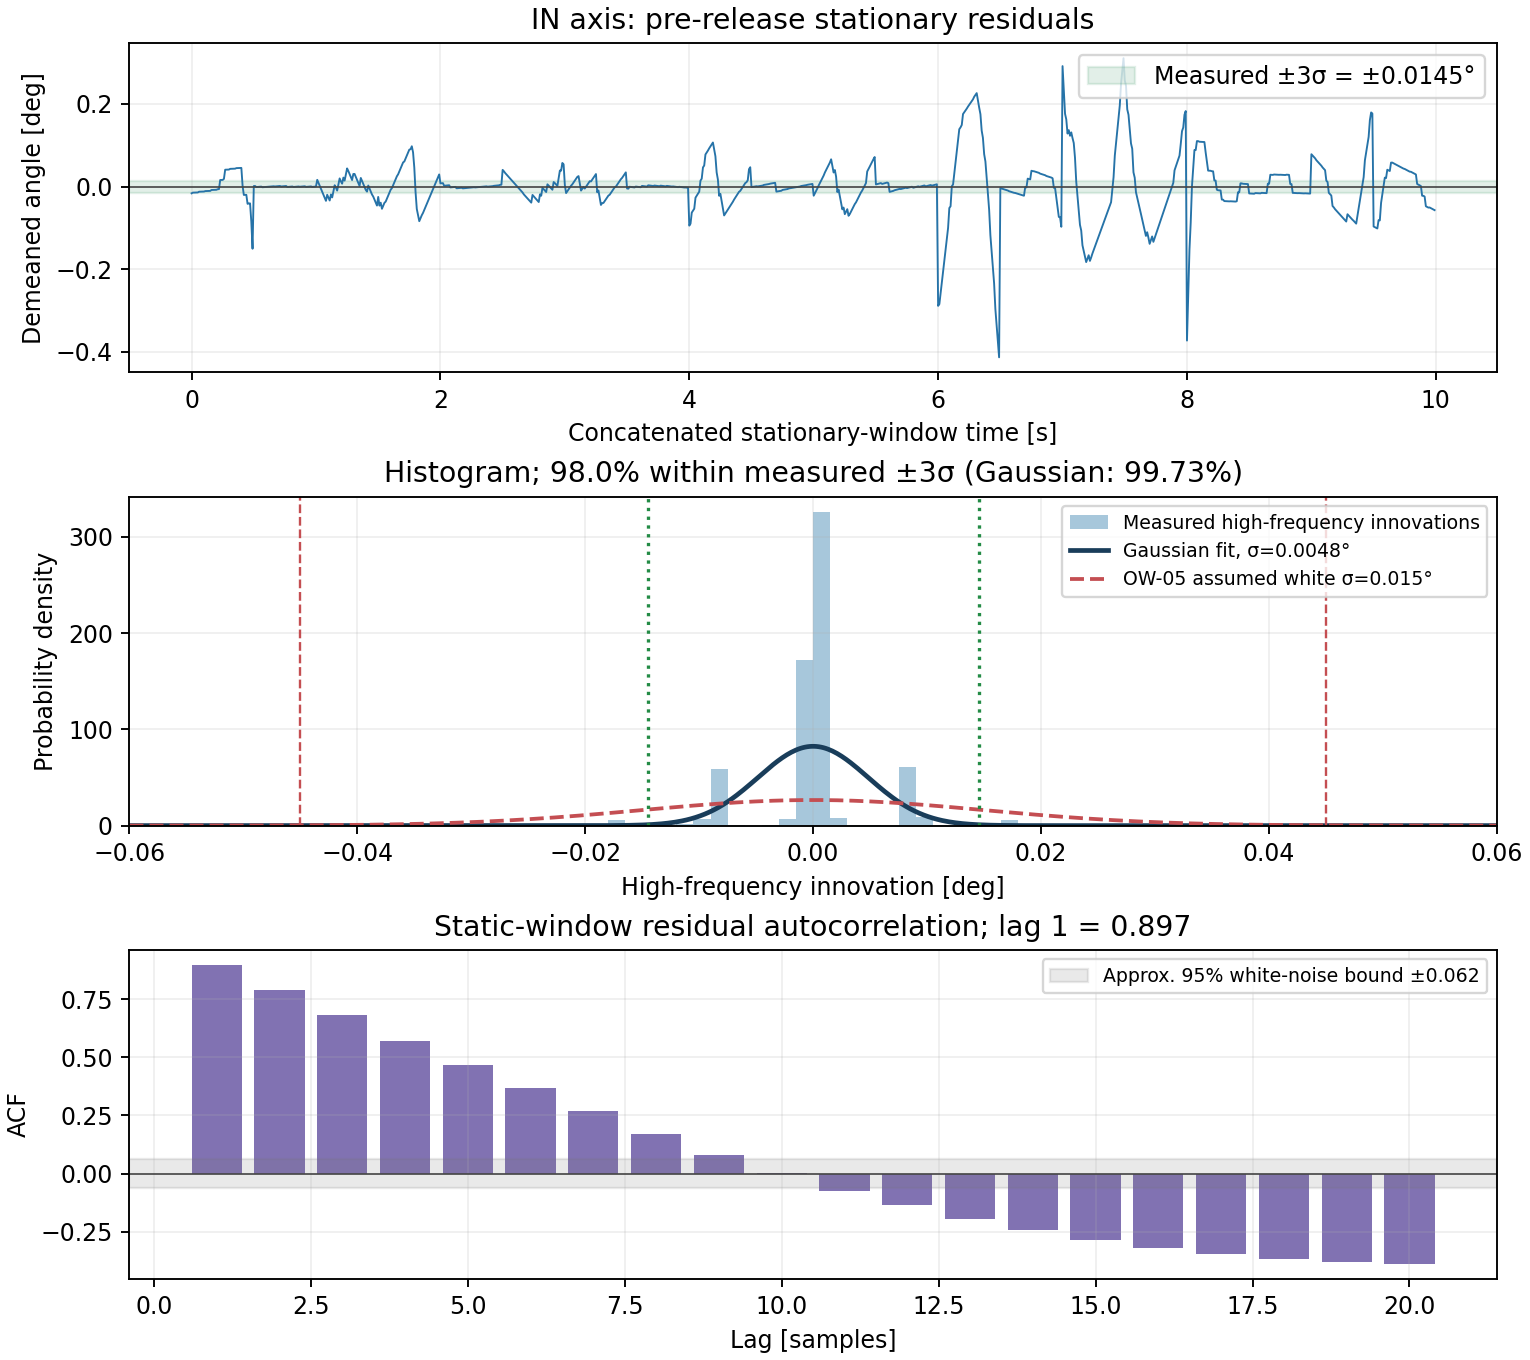
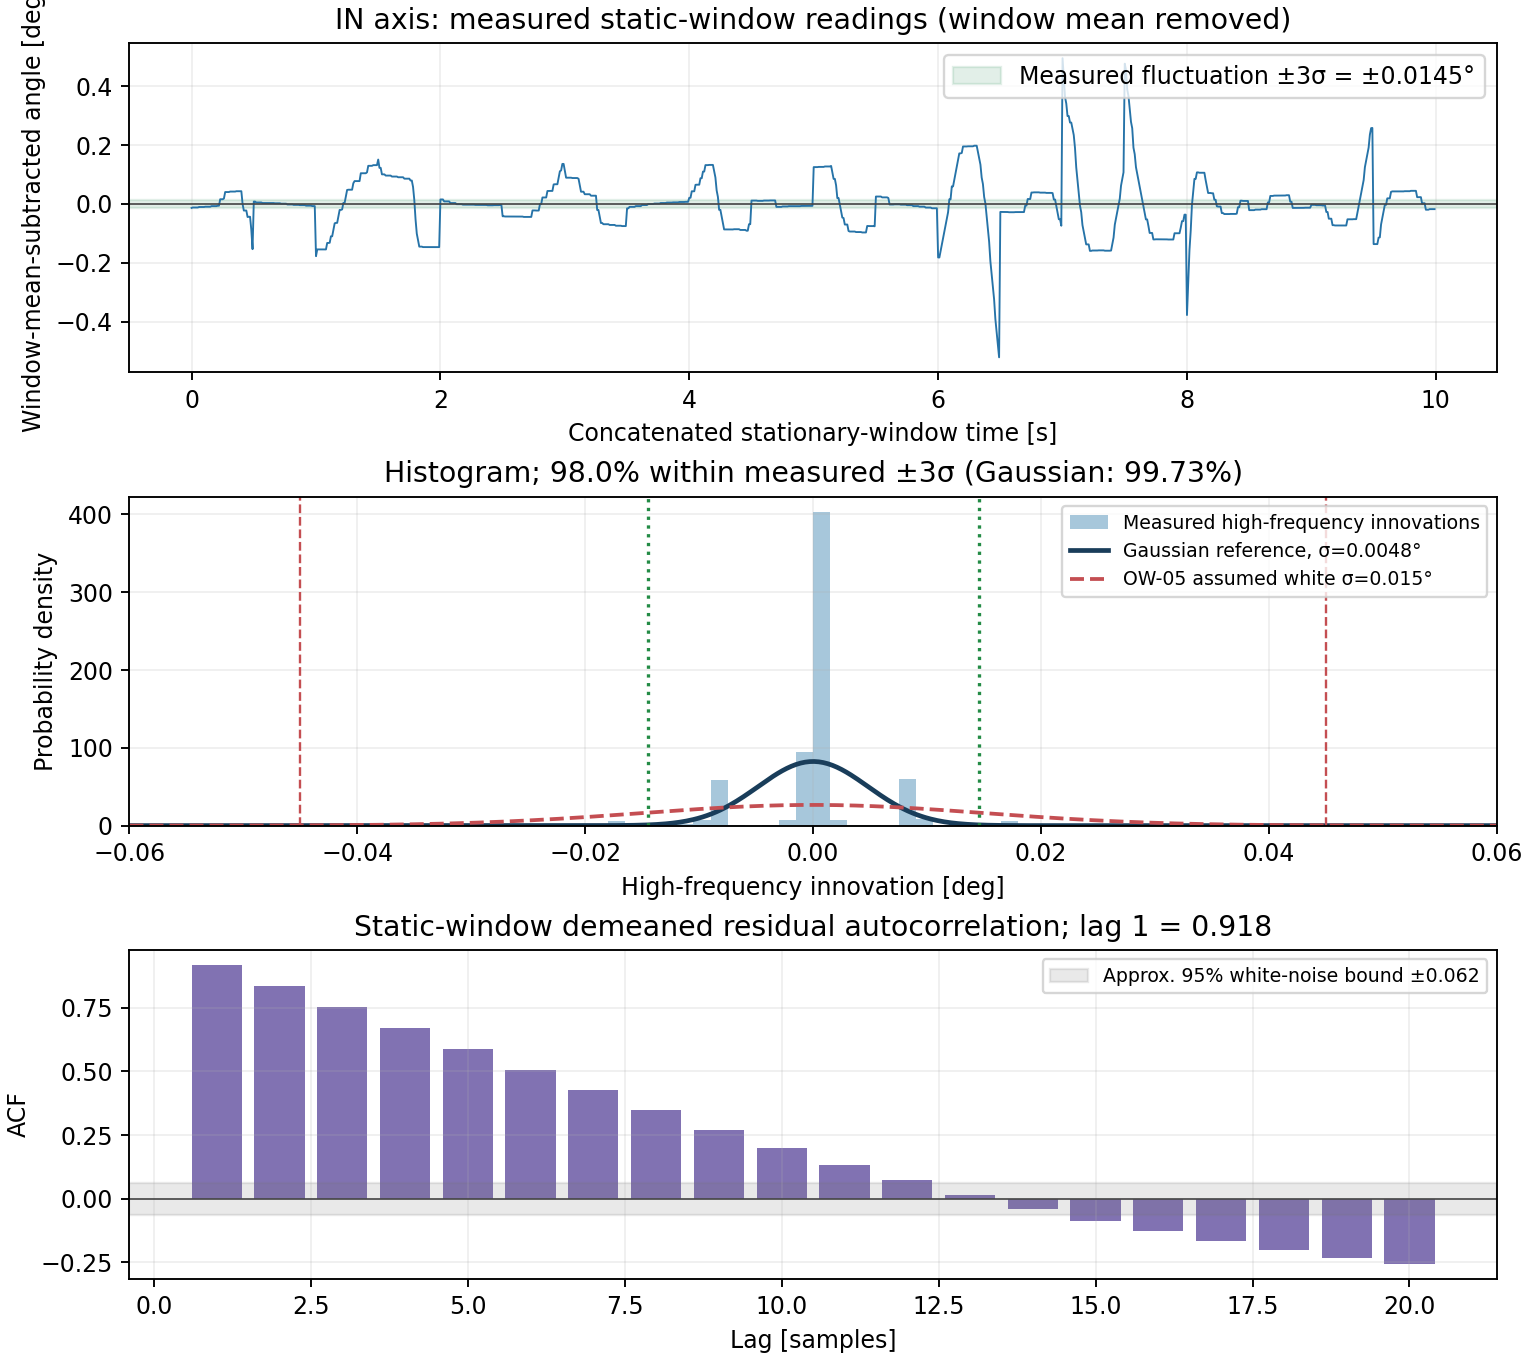
Plot mean-centered OW-05 static windows

diff --git a/06_Analysis/simulation/src/run_ow05_sensor_nonideality.py b/06_Analysis/simulation/src/run_ow05_sensor_nonideality.py
@@ -64,9 +64,9 @@ def analyze_measured_sensor_noise():
             break
         if selected is None:
           continue
-        sample=np.arange(window_n,dtype=float)
-        trend=np.polyval(np.polyfit(sample,selected,1),sample)
-        residual=selected-trend
+        # Remove only each static window's mean: the plotted trace represents
+        # measured high-frequency fluctuation, without removing its waveform.
+        residual=selected-float(np.mean(selected))
         # For independent sample noise, second difference has variance 1.5*sigma^2.
         innovations=(residual[1:-1]-0.5*(residual[:-2]+residual[2:]))/np.sqrt(1.5)
         windows.append({'segment_id':str(record['segment_id']),'data_file':relative_path,
@@ -112,9 +112,9 @@ def analyze_measured_sensor_noise():
       residuals=v['residuals']; sigma=v['white_equivalent_sigma_deg']
       joined=np.concatenate(residuals)
       axes[0].plot(np.arange(len(joined))*0.01,joined,lw=.8,color='#2673a8')
-      axes[0].axhspan(-3*sigma,3*sigma,color='#4c9f70',alpha=.16,label=f'Measured ±3σ = ±{3*sigma:.4f}°')
-      axes[0].axhline(0,color='#444',lw=.7); axes[0].set_ylabel('Demeaned angle [deg]')
-      axes[0].set_xlabel('Concatenated stationary-window time [s]'); axes[0].set_title(f'{axis} axis: pre-release stationary residuals')
+      axes[0].axhspan(-3*sigma,3*sigma,color='#4c9f70',alpha=.16,label=f'Measured fluctuation ±3σ = ±{3*sigma:.4f}°')
+      axes[0].axhline(0,color='#444',lw=.7); axes[0].set_ylabel('Window-mean-subtracted angle [deg]')
+      axes[0].set_xlabel('Concatenated stationary-window time [s]'); axes[0].set_title(f'{axis} axis: measured static-window readings (window mean removed)')
       axes[0].legend(loc='upper right'); axes[0].grid(alpha=.2)
       e=v['innovations']; bins=np.linspace(-0.06,0.06,81)
       axes[1].hist(e,bins=bins,density=True,color='#79a9c9',alpha=.65,label='Measured high-frequency innovations')
@@ -132,7 +132,7 @@ def analyze_measured_sensor_noise():
       lags=np.arange(1,len(v['acf'])+1); bound=v['acf_95_bound']
       axes[2].bar(lags,v['acf'],color='#8172b2',width=.8); axes[2].axhline(0,color='#444',lw=.7)
       axes[2].axhspan(-bound,bound,color='#777',alpha=.16,label=f'Approx. 95% white-noise bound ±{bound:.3f}')
-      axes[2].set_xlabel('Lag [samples]'); axes[2].set_ylabel('ACF'); axes[2].set_title(f"Static-window residual autocorrelation; lag 1 = {v['residual_acf_lag1']:.3f}")
+      axes[2].set_xlabel('Lag [samples]'); axes[2].set_ylabel('ACF'); axes[2].set_title(f"Static-window demeaned residual autocorrelation; lag 1 = {v['residual_acf_lag1']:.3f}")
       axes[2].legend(loc='upper right',fontsize=8); axes[2].grid(alpha=.2)
       fig.savefig(OUT/f'ow05_measured_noise_{axis.lower()}.png',dpi=170); plt.close(fig)
     return estimates

diff --git a/06_Analysis/simulation/results/observer_wind/ow05_sensor_nonideality/OW-05_REPORT.md b/06_Analysis/simulation/results/observer_wind/ow05_sensor_nonideality/OW-05_REPORT.md
@@ -28,7 +28,7 @@ OW-03で角度±60°内だった独立Kaimal乱流（平均2 m/s、TI 20%）と2
 | IN | 20 | 960 | 0.00484 | ±0.01452 | 0.01500 | 3.10× |
 | OUT | 24 | 1152 | 0.00554 | ±0.01662 | 0.01500 | 2.71× |
 
-図の上段の青線は、静止窓で実際に記録した計測角から一次傾向を除いた残差である。中央の棒は、その残差から計算した高周波変動の実測分布である。濃い青線は実測波形ではなく、表の計測角変動相当σを用いて重ねた正規分布の参考曲線（Gaussian fit）である。正規性検定では両軸とも正規分布を棄却し（p<0.001）、ラグ1自己相関も白色雑音の95%目安範囲を大きく超えたため、この曲線は実データに適合する分布を示すものではない。下段は残差の自己相関である。したがって、観測された変動を正規白色雑音とみなす仮定は支持されない。±3σ内の比率はIN 98.0%、OUT 98.7%（理想正規分布の99.73%）だった。図の赤破線はOW-05仮定σ=0.015°の±3σ、緑点線は計測角変動相当σから求めた±3σである。いずれも計測角変動に対する表示であり、センサー出力誤差の包含率を示すものではない。
+図の上段の青線は、静止窓で各静止窓で実際に記録した計測角から、その窓内の平均値だけを引いた実測値である。線形トレンド除去や平滑化はしていない。中央の棒は、この平均差し引き後の波形から二階差分で抽出した高周波イノベーションの実測分布である。濃い青線は実測波形ではなく、イノベーションの標準偏差を用いて重ねた正規分布の参考曲線（Gaussian reference）である。正規性検定では両軸とも正規分布を棄却し（p<0.001）、ラグ1自己相関も白色雑音の95%目安範囲を大きく超えたため、この曲線は実データに適合する分布を示すものではない。下段は窓平均差し引き後の実測値の自己相関である。したがって、観測された変動を正規白色雑音とみなす仮定は支持されない。±3σ内の比率はIN 98.0%、OUT 98.7%（理想正規分布の99.73%）だった。図の赤破線はOW-05仮定σ=0.015°の±3σ、緑点線は計測角変動相当σから求めた±3σである。いずれも計測角変動に対する表示であり、センサー出力誤差の包含率を示すものではない。
 
 14 bitの量子化幅は0.02197°で、計測角変動相当σより大きい。これは分解能と記録変動の比較であって、センサー出力誤差がこの幅以下または以上だという意味ではない。真角度基準なしでは、量子化を含むセンサー出力誤差の大きさや3σ幅は決められない。誤差幅を求めるには、MT6701と同時に、十分な精度の独立した角度基準を記録する必要がある。
 
